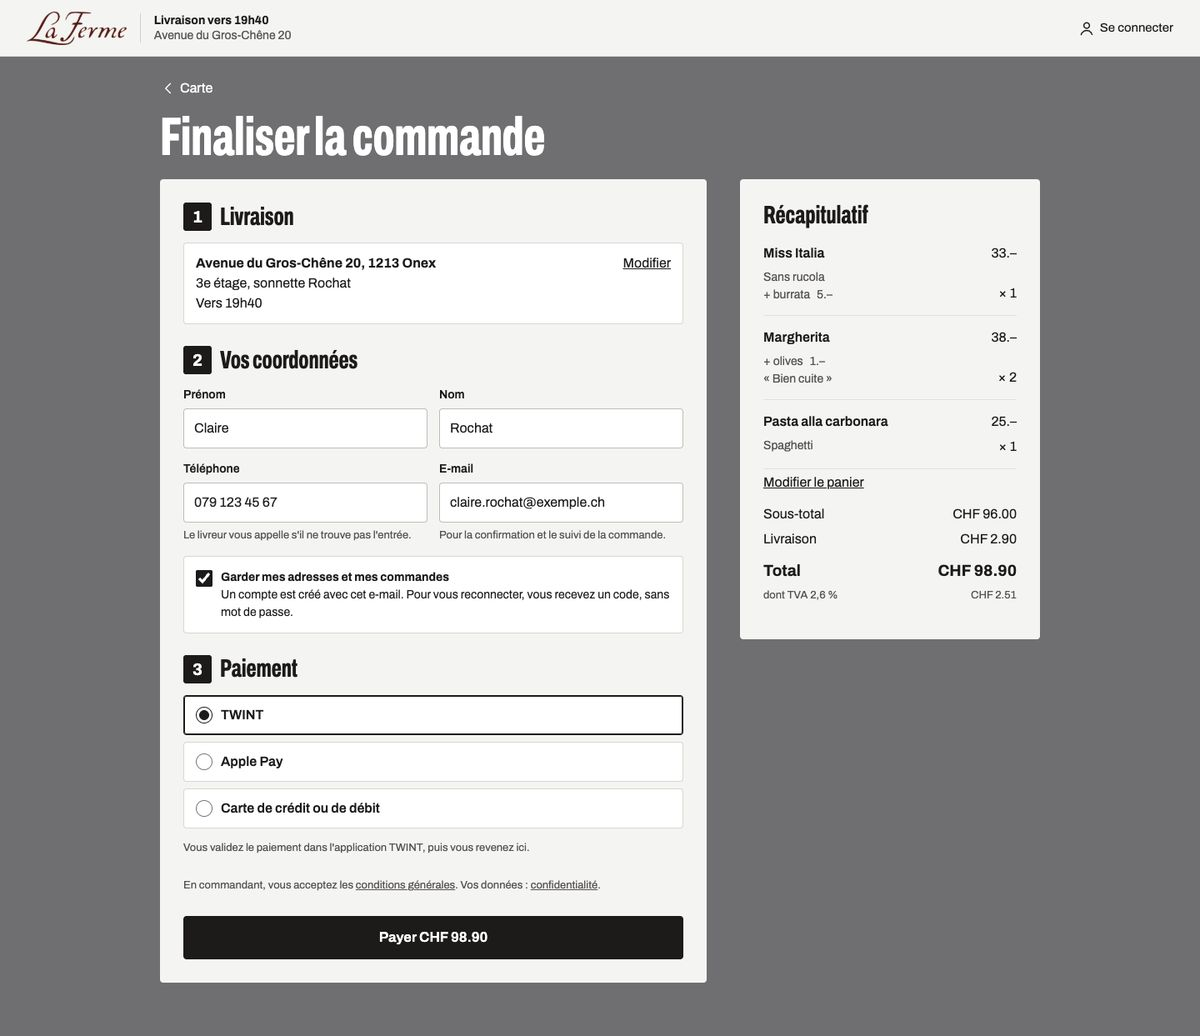
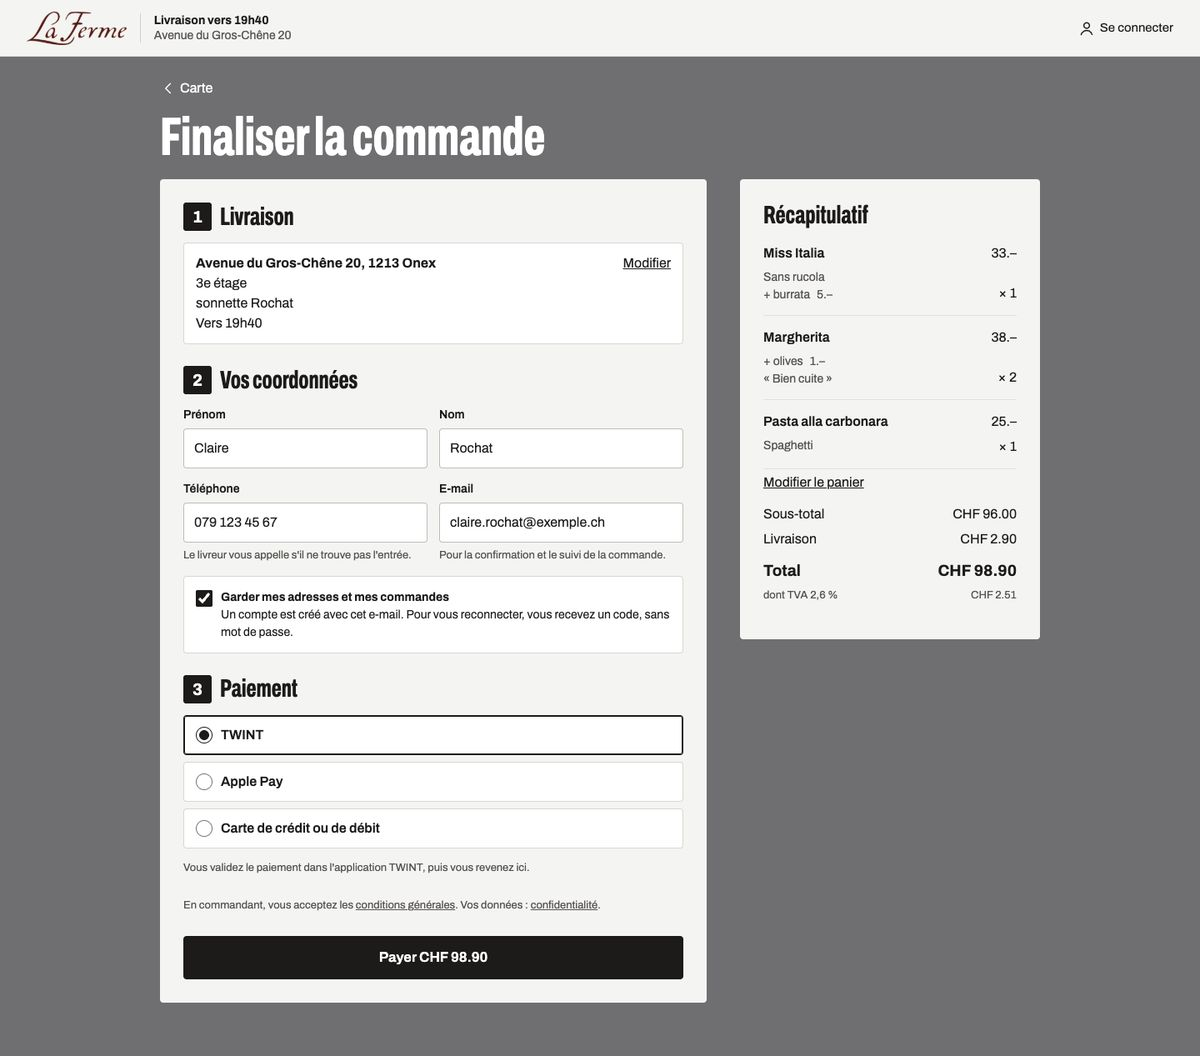
Maquette : corrections de la revue (checkout gardé, fiche, champs, suivi)

diff --git a/maquette/app.js b/maquette/app.js
@@ -1,5 +1,4 @@
-// Maquette du lot 1 : parcours client simulé dans le navigateur, sans serveur.
-// Les deux directions partagent ce fichier, seule la feuille de style change.
+// Maquette du lot 1 (direction Béton) : parcours client simulé dans le navigateur, sans serveur.
 
 const CATEGORIES = [
   ["Pizzas", "Pizzas"],
@@ -51,15 +50,17 @@ function chargerEtat() {
   } catch {
     e = null;
   }
-  e = e || { mode: "livraison", adresse: null, saisie: "", details: {}, quand: "asap", panier: [], paiement: "twint", compte: true };
-  if (p.has("adresse")) {
-    e.mode = "livraison";
-    e.adresse = ADRESSES[Number(p.get("adresse"))];
-    e.saisie = e.adresse.rue;
+  // Les paramètres de démonstration ne s'appliquent qu'à la première visite de l'onglet.
+  if (e) return e;
+  e = { mode: "livraison", adresse: null, saisie: "", details: {}, quand: "asap", panier: [], paiement: "twint", compte: true };
+  const demo = p.has("adresse") ? ADRESSES[Number(p.get("adresse"))] : null;
+  if (demo) {
+    e.adresse = demo;
+    e.saisie = demo.rue;
     e.details = { etage: "3e", sonnette: "Rochat", code: "", note: "" };
   }
   if (p.get("mode") === "retrait") e.mode = "retrait";
-  if (p.has("panier")) e.panier = paniersDemo[p.get("panier")] || [];
+  if (paniersDemo[p.get("panier")]) e.panier = structuredClone(paniersDemo[p.get("panier")]);
   return e;
 }
 
@@ -162,8 +163,8 @@ function vueAccueil() {
             <div class="details">
               <div class="champ"><label for="etage">Étage</label><input id="etage" value="${esc(etat.details.etage || "")}" /></div>
               <div class="champ"><label for="sonnette">Nom sur la sonnette</label><input id="sonnette" value="${esc(etat.details.sonnette || "")}" /></div>
-              <div class="champ"><label for="code">Code d'entrée <span class="facultatif">facultatif</span></label><input id="code" /></div>
-              <div class="champ champ-large"><label for="note-livreur">Pour le livreur <span class="facultatif">facultatif</span></label><input id="note-livreur" maxlength="140" /></div>
+              <div class="champ"><label for="code">Code d'entrée <span class="facultatif">facultatif</span></label><input id="code" value="${esc(etat.details.code || "")}" /></div>
+              <div class="champ champ-large"><label for="note-livreur">Pour le livreur <span class="facultatif">facultatif</span></label><input id="note-livreur" maxlength="140" value="${esc(etat.details.note || "")}" /></div>
             </div>`
           : ""
       }
@@ -329,7 +330,10 @@ function panierContenu(pleinePage) {
       <div class="somme-totale"><dt>Total</dt><dd>${chf(total)}</dd></div>
     </dl>
     ${
-      manque
+      etat.mode === "livraison" && !z
+        ? `<div class="minimum" role="status"><p>Choisissez une adresse dans notre zone de livraison, ou passez en retrait.</p></div>
+          <a class="bouton-principal" href="#accueil">Choisir l'adresse</a>`
+        : manque
         ? `<div class="minimum" role="status"><p>Encore <strong>${chf(manque)}</strong> pour le minimum de livraison (${prix(z.minimum)}).</p><span class="jauge"><span style="width:${Math.round((st / z.minimum) * 100)}%"></span></span></div>
           <span class="bouton-principal inactif" aria-disabled="true">Commander</span>`
         : `<a class="bouton-principal" href="#commande">Commander, ${chf(total)}</a>`
@@ -343,7 +347,8 @@ function vuePanier() {
 
 function vueFiche(id) {
   const p = parId[id];
-  const f = etat.fiche || (etat.fiche = { id, qte: 1, retraits: [], ajouts: [], choix: null, note: "", tous: false });
+  if (!etat.fiche || etat.fiche.id !== id) etat.fiche = { id, qte: 1, retraits: [], ajouts: [], choix: null, note: "", tous: false };
+  const f = etat.fiche;
   const pates = p.groupes.includes("g2");
   const supp = p.groupes.includes("g1");
   const suppAffiches = f.tous ? groupes.g1.choix : groupes.g1.choix.slice(0, 8);
@@ -433,7 +438,7 @@ function vueCommande() {
             ${
               retrait
                 ? `<p><strong>Route de Chancy 132, 1213 Onex</strong></p><p>Prête vers ${heureAsap()}</p>`
-                : `<p><strong>${esc(a.rue)}, ${a.npa} ${a.ville}</strong></p><p>${esc(etat.details.etage || "")} étage, sonnette ${esc(etat.details.sonnette || "")}</p><p>Vers ${heureAsap()}</p>`
+                : `<p><strong>${esc(a.rue)}, ${a.npa} ${a.ville}</strong></p>${[etat.details.etage && `${esc(etat.details.etage)} étage`, etat.details.sonnette && `sonnette ${esc(etat.details.sonnette)}`, etat.details.code && `code ${esc(etat.details.code)}`].filter(Boolean).map((t) => `<p>${t}</p>`).join("")}<p>Vers ${heureAsap()}</p>`
             }
             <a href="#accueil">Modifier</a>
           </div>
@@ -479,6 +484,15 @@ function vueCommande() {
   </div>`;
 }
 
+// Même règles que le bouton « Commander » du panier, pour un accès direct à #commande.
+function commandePossible() {
+  if (!etat.panier.length) return false;
+  if (etat.mode === "retrait") return true;
+  return !!zone() && totaux().manque === 0;
+}
+
+const LIBELLES_PAIEMENT = { twint: "Payé avec TWINT", apple: "Payé avec Apple Pay", carte: "Payé par carte", comptoir: "À payer au comptoir" };
+
 function vueSuivi() {
   const retrait = etat.mode === "retrait";
   const etapes = retrait
@@ -490,7 +504,7 @@ function vueSuivi() {
   <div class="page-suivi">
     <p class="suivi-num">Commande 037, ${esc("Claire")}</p>
     <h1>${retrait ? "Prête vers" : "Chez vous vers"} <span class="suivi-heure">19h45</span></h1>
-    <p class="suivi-change">Le restaurant a confirmé l'heure : 19h45 au lieu de ${heureAsap()}.</p>
+    ${heureAsap() !== "19h45" ? `<p class="suivi-change">Le restaurant a confirmé l'heure : 19h45 au lieu de ${heureAsap()}.</p>` : ""}
     <ol class="etapes">
       ${etapes
         .map(([t, h], i) => `<li class="${i < courante ? "fait" : i === courante ? "en-cours" : ""}" ${i === courante ? 'aria-current="step"' : ""}><span class="puce">${i < courante ? icone("ok") : ""}</span><span class="etape-t">${t}</span><span class="etape-h">${h}</span></li>`)
@@ -500,7 +514,7 @@ function vueSuivi() {
     <section class="suivi-detail">
       <h2>Votre commande</h2>
       <ul class="lignes">${lignesPanier(false)}</ul>
-      <dl class="sommes"><div class="somme-totale"><dt>Payé avec TWINT</dt><dd>${chf(total)}</dd></div></dl>
+      <dl class="sommes"><div class="somme-totale"><dt>${LIBELLES_PAIEMENT[etat.paiement]}</dt><dd>${chf(total)}</dd></div></dl>
       <p>Une question ? <a href="tel:+41227921689">022 792 16 89</a></p>
     </section>
   </div>`;
@@ -521,7 +535,7 @@ function rendre() {
   let html;
   if (vue === "carte" || vue === "plat") html = vueCarte();
   else if (vue === "panier") html = vuePanier();
-  else if (vue === "commande") html = etat.panier.length ? vueCommande() : vueCarte();
+  else if (vue === "commande") html = commandePossible() ? vueCommande() : vuePanier();
   else if (vue === "suivi") html = vueSuivi();
   else html = vueAccueil();
   const fiche = vue === "plat" && parId[arg] ? vueFiche(arg) : "";
@@ -579,7 +593,7 @@ app.addEventListener("click", (ev) => {
     rendre();
   } else if (a === "ancre") {
     ev.preventDefault();
-    document.querySelector(el.getAttribute("href")).scrollIntoView({ behavior: matchMedia("(prefers-reduced-motion: reduce)").matches ? "auto" : "smooth" });
+    document.querySelector(el.getAttribute("href"))?.scrollIntoView({ behavior: matchMedia("(prefers-reduced-motion: reduce)").matches ? "auto" : "smooth" });
   }
 });
 
@@ -623,8 +637,10 @@ app.addEventListener("input", (ev) => {
     i.setSelectionRange(i.value.length, i.value.length);
   } else if (el.id === "note-plat") {
     etat.fiche.note = el.value;
-  } else if (["etage", "sonnette"].includes(el.id)) {
+  } else if (["etage", "sonnette", "code"].includes(el.id)) {
     etat.details[el.id] = el.value;
+  } else if (el.id === "note-livreur") {
+    etat.details.note = el.value;
   }
 });
 

diff --git a/maquette/base.css b/maquette/base.css
@@ -1,5 +1,5 @@
-/* Mécanique commune aux deux directions : positions, empilement, comportements.
-   Couleurs, polices et mise en page de la carte sont dans a/style.css et b/style.css. */
+/* Mécanique de la maquette : positions, empilement, comportements.
+   Couleurs, polices et mise en page de la carte sont dans a/style.css. */
 
 *,
 *::before,
